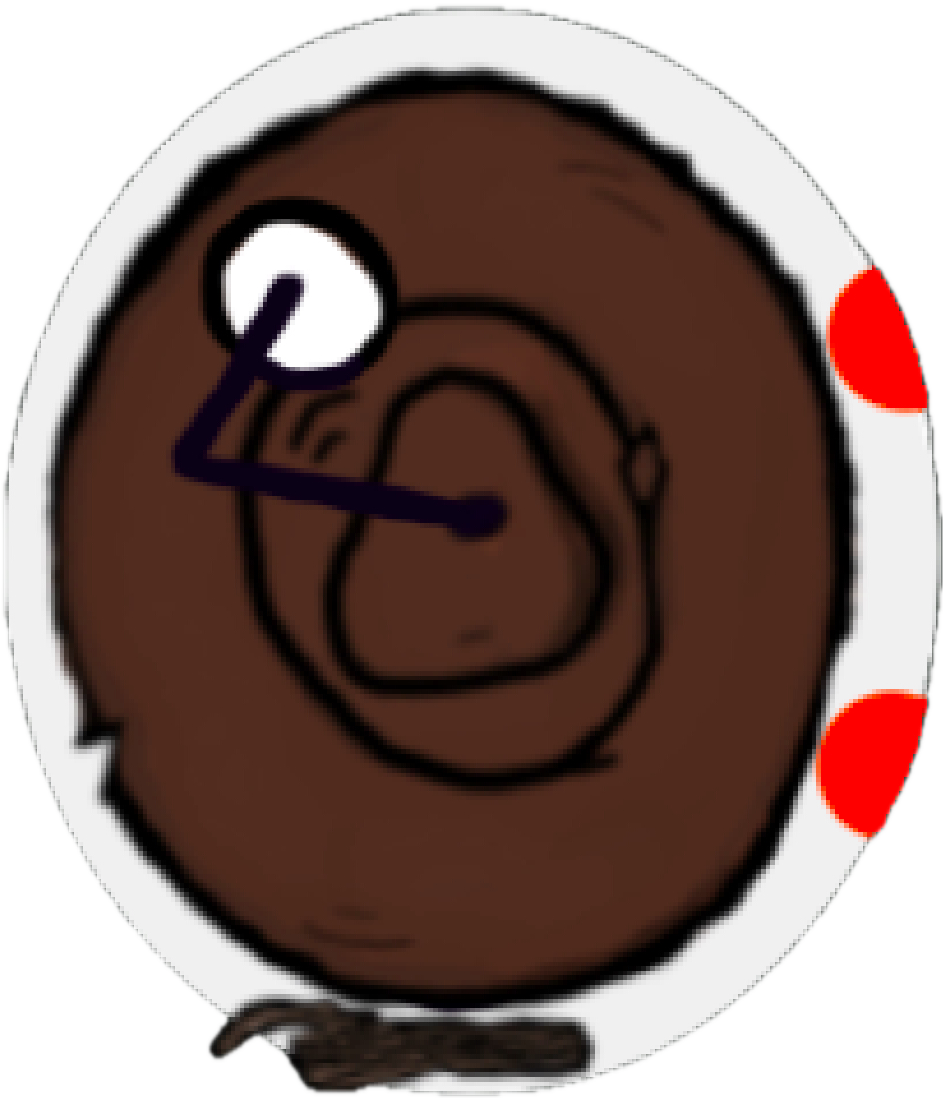
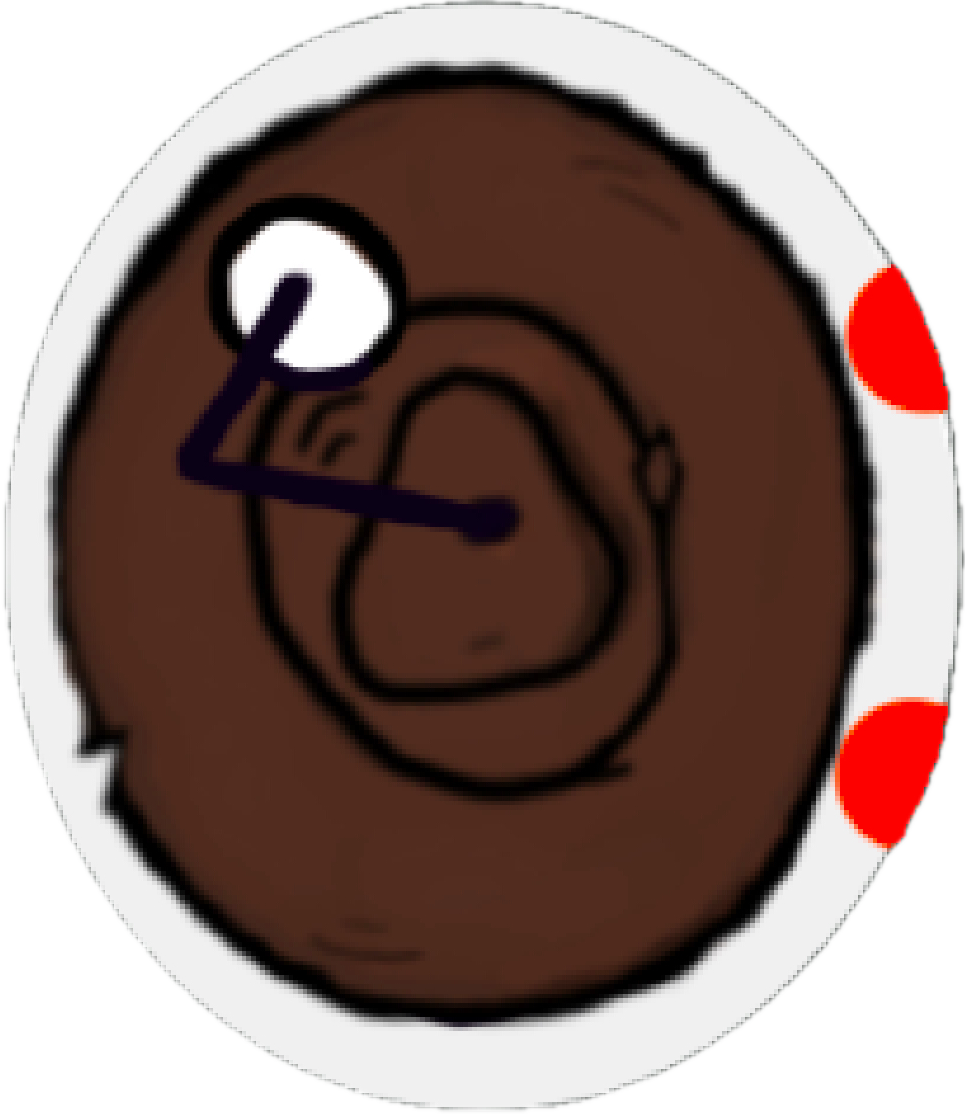
Updated leaderboard to fix the '...' for the 10th place, updated HowToPlay page but with place holder imgs, and updated snoo2 img

diff --git a/src/HowToPlay.tsx b/src/HowToPlay.tsx
@@ -1,93 +1,131 @@
-import { Devvit } from '@devvit/public-api';
+import { Devvit, useState } from '@devvit/public-api';
 import type { Context } from '@devvit/public-api';
 
 interface HowToPlayProps {
   onBack: () => void;
 }
 
-export const HowToPlay = ({ onBack }: HowToPlayProps) => (
-  <vstack padding="medium" gap="medium" grow backgroundColor="#2a2a2a" width="100%">
-    {/* Header - match leaderboard styling exactly */}
-    <vstack alignment="middle center" padding="small">
-      <hstack width="100%" alignment="middle center">
-        <hstack width="10%" />
-        <text size="xlarge" weight="bold" color="white" grow alignment="middle center">
-          How to Play
+export const HowToPlay = ({ onBack }: HowToPlayProps) => {
+  const [currentPage, setCurrentPage] = useState<number>(0);
+  
+  const pages = [
+    // Page 1 - Introduction
+    <vstack key="page-1" padding="medium" gap="medium" alignment="middle center">
+      <image url="temp.png" imageWidth={180} imageHeight={180} />
+      <text color="white" weight="bold" size="large" alignment="center">Explore The Maze</text>
+      <vstack maxWidth="420px">
+        <text color="white" wrap={true} alignment='center' grow>
+          Play as an adventurous Snoo navigating through mysterious mazes, discover secrets and escape. Move by tapping on adjacent tiles or using the WASD keys when on a desktop.
         </text>
-        <hstack
-          width="10%"
-          alignment="end"
-          onPress={onBack}
-          padding="small"
-        >
-          <text size="large" weight="bold" color="white">✕</text>
+      </vstack>
+    </vstack>,
+
+    // Page 2 - Game Modes
+    <vstack key="page-2" padding="medium" gap="medium" alignment="middle center">
+      <image url="temp.png" imageWidth={180} imageHeight={180} />
+      <text color="white" weight="bold" size="large" alignment="center">Game Modes</text>
+      <vstack maxWidth="420px">
+        <text color="white" wrap={true} alignment='center' grow>
+          Choose Casual Mode for unlimited karma and no time pressure, perfect for learning, or Challenge Mode to race against time, manage karma wisely, and compete for high scores.
+        </text>
+      </vstack>
+    </vstack>,
+
+    // Page 3 - Power-Ups
+    <vstack key="page-3" padding="medium" gap="medium" alignment="middle center">
+      <image url="temp.png" imageWidth={180} imageHeight={180} />
+      <text color="white" weight="bold" size="large" alignment="center">Power-Ups</text>
+      <vstack gap="none" width="100%">
+        <hstack gap="small" alignment="start" grow>
+          <image url="karma.png" imageWidth={16} imageHeight={16} />
+          <text color="white" wrap={true} grow>
+            Karma: Collect karma to unlock doors or escape traps.
+          </text>
         </hstack>
-      </hstack>
-      <text size="small" color="#888888">Game Guide</text>
-    </vstack>
-
-    {/* Main Content Container */}
-    <vstack alignment="center middle" backgroundColor="#4a4a4a" cornerRadius="small">
-      <vstack
-        padding="none"
-        gap="none"
-        maxWidth="600px"
-      >
-        <vstack padding="medium" gap="medium">
-          {/* Game Modes */}
-          <vstack gap="small" width="100%">
-            <text color="white" wrap={true} grow>
-              Play as an adventurous Snoo navigating through mysterious mazes, using karma to unlock doors, discover secrets, and find the exit.
-            </text>
-          </vstack>
-
-          <vstack>
-            <text color="white" wrap={true} grow>
-                Controls: Move using WASD keys or tap/click adjacent tiles.
-                </text>
-          </vstack>
-
-          <vstack gap="none" width="100%">
-            <hstack gap="small" alignment="start" grow>
-              <text color="white" wrap={true} grow>
-                Casual Mode: Unlimited karma, no time pressure, perfect for learning.
-              </text>
-            </hstack>
-            <hstack gap="small" alignment="start" grow>
-              <text color="white" wrap={true} grow>
-              Challenge Mode: Race against time, manage karma wisely, compete for high scores.
-              </text>
-            </hstack>
-          </vstack>
-
-          {/* Power-Ups Section */}
-          <vstack gap="none" width="100%">
-            <hstack gap="small" alignment="start" grow>
-              <image url="karma.png" imageWidth={16} imageHeight={16} />
-              <text color="white" wrap={true} grow>
-                Karma: Collect karma to unlock doors or escape traps.
-              </text>
-            </hstack>
-
-            <hstack gap="small" alignment="start" grow>
-              <image url="map.png" imageWidth={16} imageHeight={16} />
-              <text color="white" wrap={true} grow>
-                Map: Expand your visible radius to plan your path.
-              </text>
-            </hstack>
-
-            <hstack gap="small" alignment="start" grow>
-              <image url="crystal.png" imageWidth={16} imageHeight={16} />
-              <text color="white" wrap={true} grow>
-                Crystal Ball: Reveal the true exit and dangerous areas.
-              </text>
-            </hstack>
-          </vstack>
-        </vstack>
+        <hstack gap="small" alignment="start" grow>
+          <image url="map.png" imageWidth={16} imageHeight={16} />
+          <text color="white" wrap={true} grow>
+            Map: Expand your visible radius to plan your path.
+          </text>
+        </hstack>
+        <hstack gap="small" alignment="start" grow>
+          <image url="crystal.png" imageWidth={16} imageHeight={16} />
+          <text color="white" wrap={true} grow>
+            Crystal Ball: Reveal the true exit and dangerous areas.
+          </text>
+        </hstack>
       </vstack>
     </vstack>
-  </vstack>
-);
+  ];
 
+  const nextPage = () => {
+    setCurrentPage((prevPage: number) => (prevPage + 1) % pages.length);
+  };
+
+  const prevPage = () => {
+    setCurrentPage((prevPage: number) => (prevPage - 1 + pages.length) % pages.length);
+  };
+
+  return (
+    <vstack padding="medium" gap="medium" grow backgroundColor="#2a2a2a" width="100%">
+      {/* Header */}
+      <vstack alignment="middle center" padding="small">
+        <hstack width="100%" alignment="middle center">
+          <hstack width="10%" />
+          <text size="xlarge" weight="bold" color="white" grow alignment="middle center">
+            How to Play
+          </text>
+          <hstack width="10%" alignment="end" onPress={onBack} padding="small">
+            <text size="large" weight="bold" color="white">✕</text>
+          </hstack>
+        </hstack>
+        <text size="small" color="#888888">Game Guide</text>
+      </vstack>
+
+      {/* Main Content Container with Navigation */}
+      <hstack grow cornerRadius="small">
+        {/* Left Arrow */}
+        <hstack
+          backgroundColor="#4a4a4a"
+          width="32px"
+          alignment="middle center"
+          onPress={prevPage}
+        >
+          <text color="white" size="large">‹</text>
+        </hstack>
+
+        {/* Content with Page Indicators */}
+        <vstack alignment="center middle" backgroundColor="#4a4a4a" grow>
+          {/* Page Indicators */}
+          <hstack padding="small" alignment="middle center" gap="small">
+            {pages.map((_, index) => (
+              <hstack 
+                key={`dot-${index}`}
+                backgroundColor={currentPage === index ? "white" : "#666666"}
+                width="5px"
+                height="5px"
+                // cornerRadius="full"
+              />
+            ))}
+          </hstack>
+          {/* Content */}
+          <vstack padding="none" gap="none" maxWidth="600px">
+            {pages[currentPage]}
+          </vstack>
+        </vstack>
+
+        {/* Right Arrow */}
+        <hstack
+          backgroundColor="#4a4a4a"
+          width="32px"
+          alignment="middle center"
+          onPress={nextPage}
+        >
+          <text color="white" size="large">›</text>
+        </hstack>
+      </hstack>
+    </vstack>
+  );
+};
 
 export default HowToPlay;

diff --git a/src/leaderboard.tsx b/src/leaderboard.tsx
@@ -108,8 +108,8 @@ export const Leaderboard = ({ context, onBack }: { context: Context; onBack: () 
                 gap="medium"
                 backgroundColor={index % 2 === 0 ? '#333333' : '#2a2a2a'}
               >
-                <text width="5%" color="white">{index + 1}</text>
-                <text width="65%" color="white">{entry.username}</text>
+                <text width="8%" color="white">{index + 1}</text>
+                <text width="62%" color="white">{entry.username}</text>
                 <text width="30%" alignment="end" color="white">{entry.score.toLocaleString()}</text>
               </hstack>
             ))

diff --git a/webroot/maze.js b/webroot/maze.js
@@ -127,7 +127,7 @@ function initializeGame(data) {
 
     // Show prompt only for new games (not retries or next games)
     if (data.isFirstGame && !data.isCasualMode) {
-        showGamePrompt("Find karma and escape the maze!");
+        showGamePrompt("Escape the maze!");
     }
 
     if (data.isFirstGame && data.isCasualMode) {
